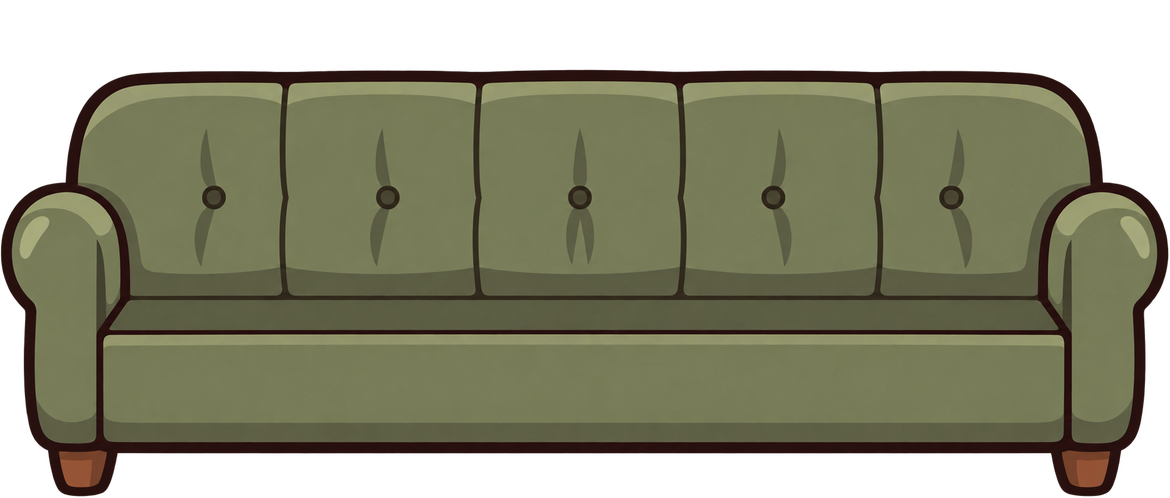
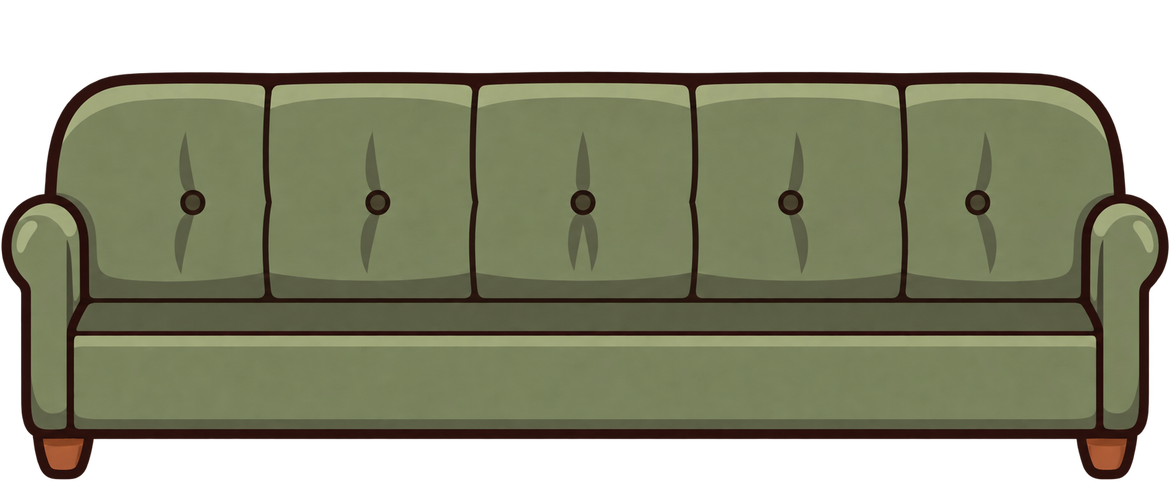
Fit couch arms outside the five seat cushions for #39

Changed region(s): [[0.0, 0.1205, 1.0, 1.0], [0.4923, 0.2711, 0.5231, 0.3012]]

diff --git a/art/reference/room.md b/art/reference/room.md
@@ -16,7 +16,9 @@ Following the brief's delivery instructions, each transparent sprite was
 cropped around its visible silhouette (alpha greater than 2/255, excluding
 nearly invisible stray pixels), uniformly resized to fit its manifest canvas,
 and padded with transparent pixels. The original alpha within the crop is
-preserved. Bottom-anchored furniture aligns to the bottom; the Shelf, Seat
+preserved. The Treat jar aligns to the bottom; the Couch fits within 1170×411
+and starts at y=70 on its 1170×498 canvas to align its support deck
+with the cushions. The Shelf, Seat
 pad, and Disaster sign align to the top; other sprites are centred except
 Full Sofa, which fits within 1170×414 and starts at y=84 on its 1170×498
 canvas to frame the upholstery below the meter. Moons
@@ -32,7 +34,10 @@ Cat names; its final thin translucent halo leaves names readable and frames
 the upholstery below the meter. After author feedback that the cushions
 looked suspended, the Couch frame was edited to raise its support deck and
 front fascia to meet the cushion bottoms. Cat seating positions and the
-separate cushion image are unchanged. A later attempt to extend only the
+separate cushion image are unchanged. Follow-up author feedback exposed
+the outer cushions overlapping the arms: the final frame has slimmer arms
+and a wider support deck so all five cushions fit between them. Both end
+Seats were checked empty and occupied. An earlier attempt to extend only the
 backrest also moved the support deck, so it was rejected. The meter still
 sits approximately 11 design pixels above the backrest; this minor visual
 review finding remains open.
@@ -45,6 +50,7 @@ review finding remains open.
   its three Sleepy Cats together (Nap Club), then Cats in Seats 1, 3, and 5
   (Personal Space). No browser errors.
 - `room-preview.png` shows seed 7's furnished room and active Gatherings.
+  `room-empty-preview.png` exposes both cushion/arm joints for visual review.
 - `badges-grayscale.png` shows all five badges in grayscale, including at
   22 px near their in-game size: sun, crescent, snowflake, diamond, star.
 - Typechecking and all 273 unit tests pass. All 48 browser tests pass.
@@ -58,5 +64,6 @@ review finding remains open.
 **Correction awaiting author confirmation.** The author reviewed the initial
 Run on 2026-09-25 and reported that the cushions looked raised off the Couch.
 The frame now supports the cushion bottoms, verified by agent inspection
-both empty and occupied. Refresh `/?seed=7` to review the correction.
+both empty and occupied. The subsequent arm-overlap report is also corrected
+by narrowing the arms and widening the deck. Refresh `/?seed=7` to review the correction.
 No final author approval is claimed by this delivery.
